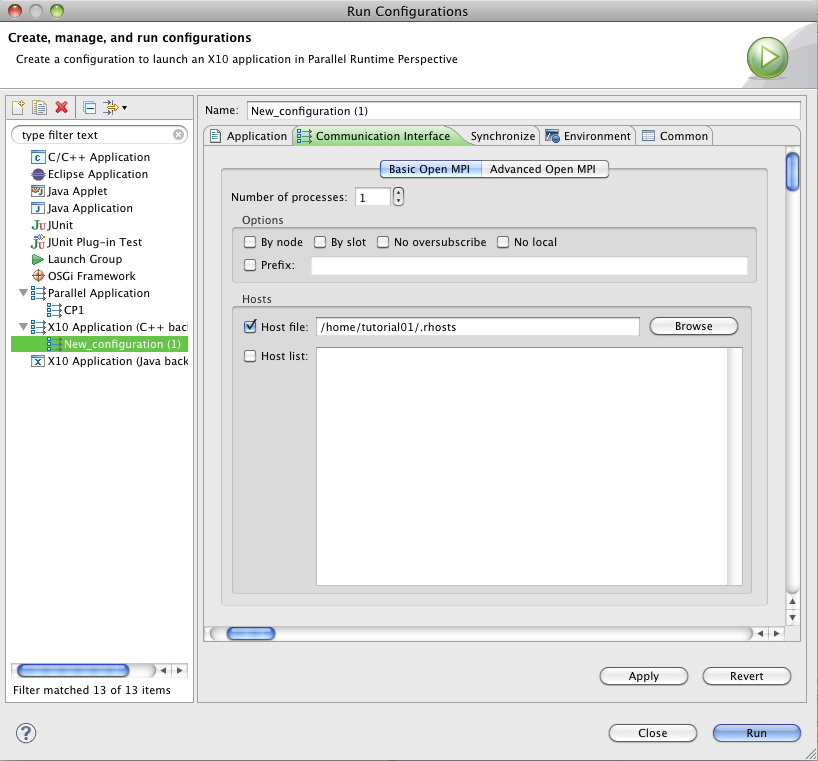
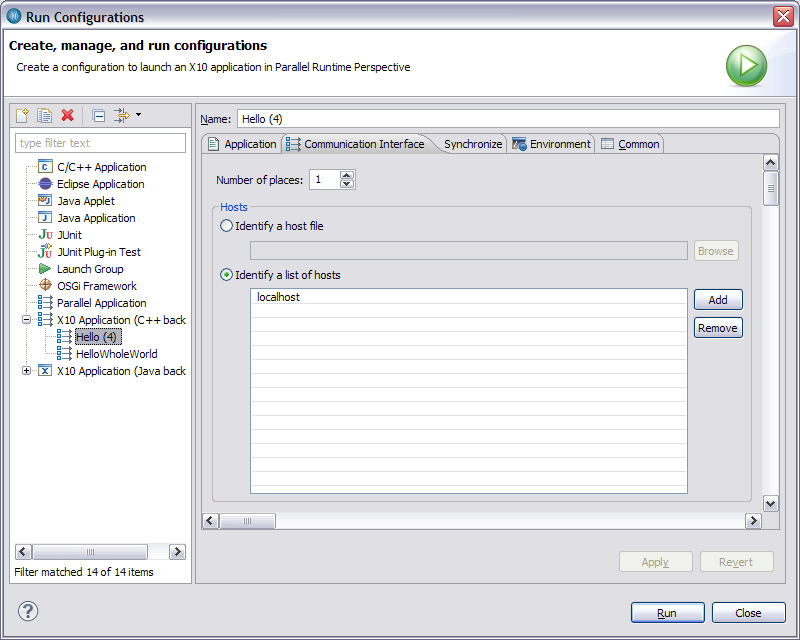
v2.1.2 changes
git-svn-id: svn://svn.code.sf.net/p/x10/code/x10dt/trunk@20254 a326200e-df2c-42e0-81fa-597e909af41d

Changed region(s): [[0.0, 0.0, 1.0, 1.0]]

diff --git a/x10dt.help.dt/html/gettingstarted/Steps9-14.html b/x10dt.help.dt/html/gettingstarted/Steps9-14.html
@@ -12,7 +12,6 @@ X10DT allows you to compile and run your programs on different machines with the
 
 <ul>
 <li><a href="#platform">The X10 Platform Configuration and Remote Launching</a></li>
-<li><a href="#debugger">Debugger Basics</a></li>
 </ul>
 
 <h2 id="platform">The X10 Platform Configuration and Remote Launching</h2>
@@ -30,21 +29,27 @@ If your settings are correct a green check mark will appear next to the
 name of the connection.
 
 <br><br>
-Change the <b>Connection Type</b> to <b>Open MPI</b> and keep the default settings that appear.
+Change the <b>Connection Type</b> to <b>Sockets</b> and keep the default settings that appear.
 
 <br><br>
 <img src="images/platformConfig1.png" border="0" />
 <br><br>
 
-Switch to the <b>C++ Compilation and Linking</b> tab. Specify the output folder in the home directory for the account you have chosen, and name
-your output folder <b>using your own name</b>. This is to ensure that different participants in the tutorial won't share output directories accidentally.
+Switch to the <b>C++ Compilation and Linking</b> tab. Specify the output folder in the home directory to use, and name
+your output folder appropriately. 
+<!--
+This is to ensure that different participants in the tutorial won't share output directories accidentally.
 For example, if you chose <b>tutorial01</b> for your account, then your output folder would be: 
-<br><br><b>/home/tutorial01/JohnDoe</b><br><br>
-In the <b>X10 Distribution</b> field, enter: <b>/opt/x10</b>. This will be automatically carried to the PGAS distribution field.
-
-<br>
+<br><br><b>/home/tutorial01/JohnDoe</b>
+<br><br>
+-->
+In the <b>X10 Distribution</b> field, enter the location of your X10 distribution. 
+This will be automatically carried to the PGAS distribution field.
+<br><br>
+<!--
 Be sure that the checkbox <b>Use MPI Library for Debugger</b> under <b>Compilation and Linking</b> is checked.
 <br><br>
+-->
 <img src="images/platformConfig2.png" border="0" />
 <br><br>
 
@@ -74,15 +79,18 @@ the name of the main type in the <b>Main class</b> field. You may use the <b>Sea
 <img src="images/runConfig.png" border="0" />
 <br><br>
 
-In the <b>Communication Interface</b> tab, in the <b>Basic Open MPI</b> section, enter the desired number of processes (needs to be >0). Check
-the <b>Host file</b> check box and enter (with <b>tutotrial01</b> replaced with your account):
+In the <b>Communication Interface</b> tab, enter the desired number of places (needs to be >0). Check either
+the <b>Host file</b> or <b>List of hosts</b> check box and enter the host file to use, or each host to use on a single line.):
 
+<!--
 <br><br><b>/home/tutorial01/.rhosts</b>
+-->
 
 <br><br>
 <img src="images/runConfig1.png" border="0" />
 <br><br>
 
+<!--
 Click on the <b>Advanced Open MPI</b> button, and check the check boxes labeled: <b>Use default arguments</b>, and <b>Use default parameters</b>.
 Occasionally, you may need to hit <b>Apply</b> when making these changes because the settings may be lost as you navigate through the tabs (a shortcoming
 that will be fixed in a future release).
@@ -90,11 +98,11 @@ that will be fixed in a future release).
 <br><br>
 <img src="images/runConfig2.png" border="0" />
 <br><br>
-
+-->
 
 When you are finished with the <b>Run Configurations</b> settings, and no tab shows any errors, hit <b>Apply</b> to save, and then hit <b>Run</b>.
 
-
+<!--
 <br><br>
 If this step fails for you, go to the <b>Resources Manager</b> pane in the <b>Parallel Runtime</b> perspective. Right click on the resource manager
 corresponding to your project, and select <b>Stop Resource Manager</b>. Click <b>OK</b> in the popup window. Then right click again on the
@@ -105,8 +113,9 @@ back to the run configurations (<b>Run -> Run Configurations...</b>) and selecti
 <br><br>
 <img src="images/resourceManager.png" border="0" />
 <br><br>
+-->
 
-
+<!--
 <h2 id="debugger">Debugger Basics</h2>
 
 To start working with the debugger, go to:
@@ -159,6 +168,7 @@ back to the debug configurations (<b>Run -> Debug Configurations...</b>) and sel
 <br><br>
 <img src="images/debugger.png" border="0" />
 <br><br>
+-->
 
 </body>
 </html>
